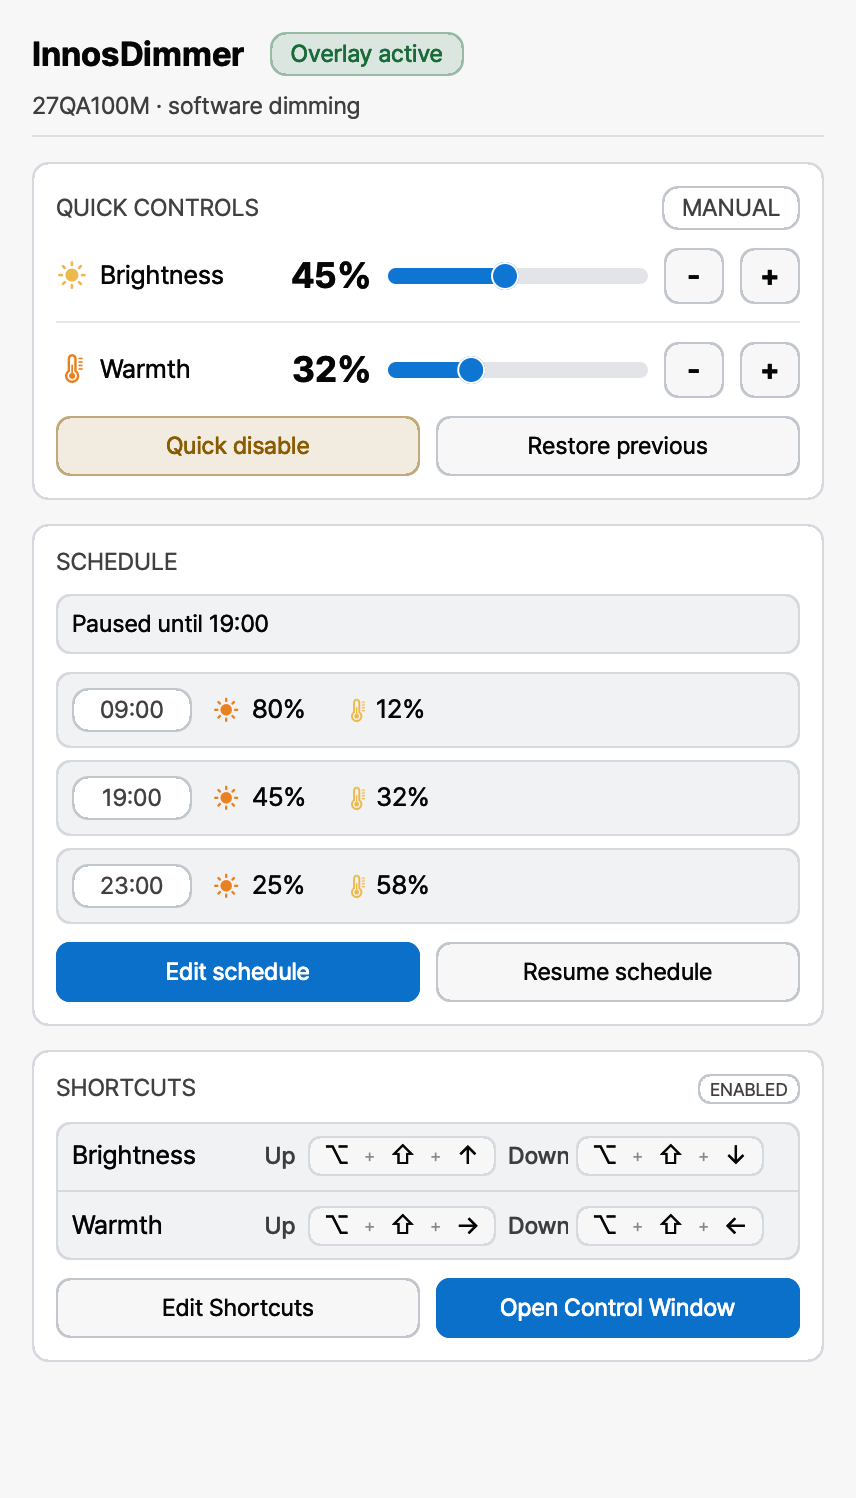
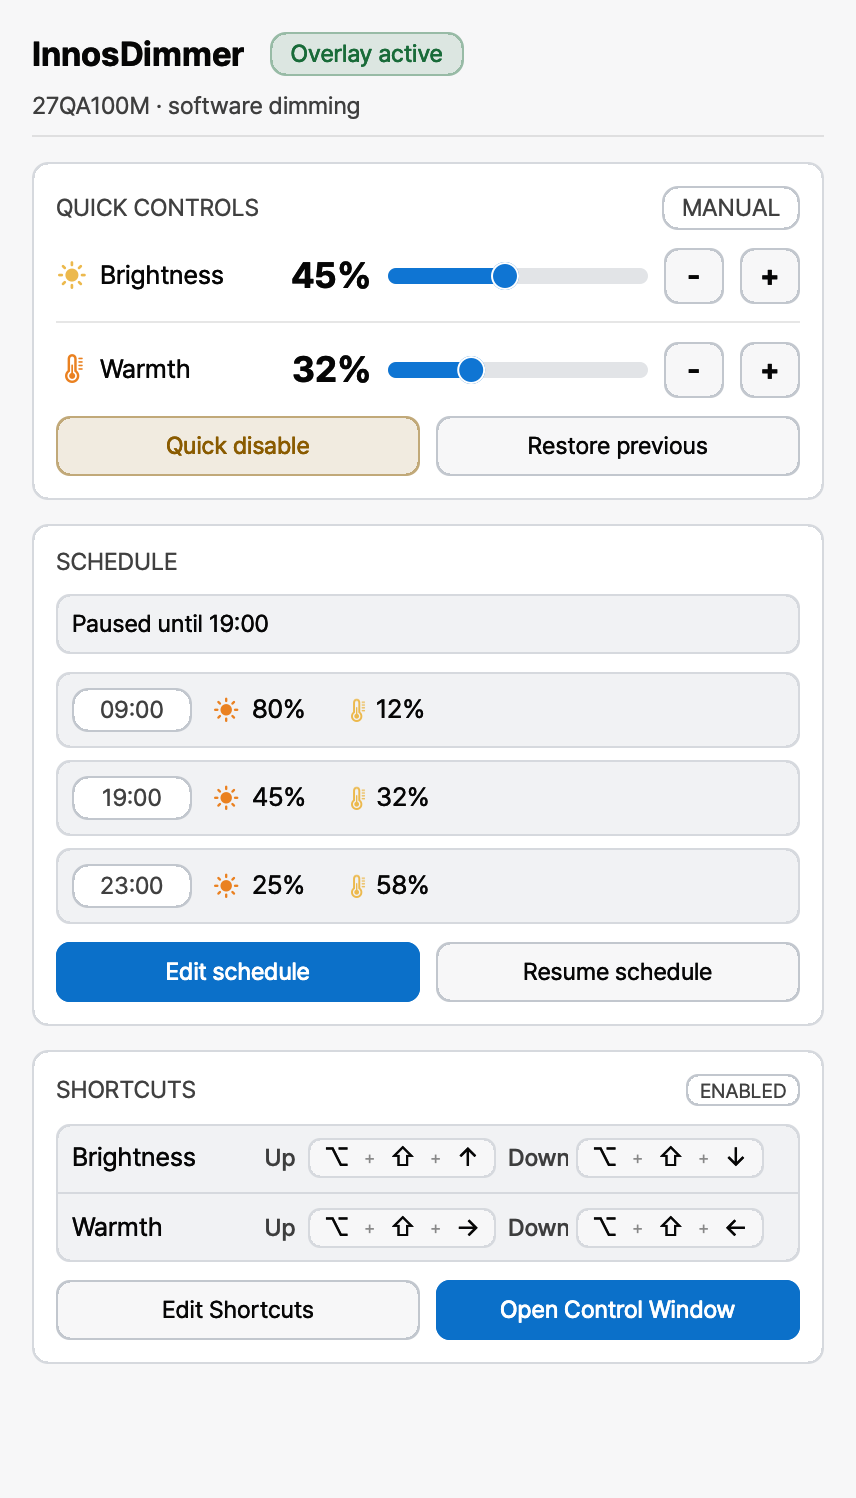
Enlarge compact popover enabled badge
Why: The Shortcuts ENABLED badge in the current popover mockup was too small after prior compaction.

Key changes:
- Increase the compact popover badge font role from 9pt to 10pt.
- Give compact popover badges slightly wider padding and an 18pt minimum height.
- Sync mockup-current, the current-state plan snippet, and actual popover captures.

Operator context:
- User selected the Shortcuts ENABLED badge in mockup-current and requested it be slightly larger.
- Kept unrelated app-window and window-redesign dirty files unstaged.

Verification:
- xcodebuild -project InnosDimmer.xcodeproj -scheme InnosDimmer -destination 'platform=macOS' CODE_SIGNING_ALLOWED=NO test -only-testing:InnosDimmerTests/MenuBarStateTests -only-testing:InnosDimmerTests/HotkeyBindingTests
- git diff --check
- git diff --cached --check

Changed region(s): [[0.0607, 0.7063, 0.9416, 0.9212]]

diff --git a/InnosDimmer/UI/MenuBarPopoverView.swift b/InnosDimmer/UI/MenuBarPopoverView.swift
@@ -130,8 +130,8 @@ private final class BadgePillView: NSView {
 
         addSubview(label)
         NSLayoutConstraint.activate([
-            label.leadingAnchor.constraint(equalTo: leadingAnchor, constant: compact ? 4 : 8),
-            label.trailingAnchor.constraint(equalTo: trailingAnchor, constant: compact ? -4 : -8),
+            label.leadingAnchor.constraint(equalTo: leadingAnchor, constant: compact ? 5 : 8),
+            label.trailingAnchor.constraint(equalTo: trailingAnchor, constant: compact ? -5 : -8),
             label.topAnchor.constraint(equalTo: topAnchor, constant: compact ? 2 : 4),
             label.bottomAnchor.constraint(equalTo: bottomAnchor, constant: compact ? -2 : -4)
         ])
@@ -154,7 +154,7 @@ private final class BadgePillView: NSView {
     override var intrinsicContentSize: NSSize {
         let size = label.intrinsicContentSize
         if compact {
-            return NSSize(width: size.width + 8, height: max(16, size.height + 4))
+            return NSSize(width: size.width + 10, height: max(18, size.height + 4))
         }
         return NSSize(width: size.width + 16, height: max(24, size.height + 8))
     }

diff --git a/docs/design/popover-redesign/mockup-current.html b/docs/design/popover-redesign/mockup-current.html
@@ -182,10 +182,10 @@
     }
 
     .badge.compact {
-      min-height: 16px;
-      padding: 2px 4px;
+      min-height: 18px;
+      padding: 2px 5px;
       border-radius: 6px;
-      font-size: 9px;
+      font-size: 10px;
       line-height: 1;
     }
 

diff --git a/InnosDimmer/UI/DesignSystem/InnosDesignTokens.swift b/InnosDimmer/UI/DesignSystem/InnosDesignTokens.swift
@@ -56,7 +56,7 @@ enum InnosDesignTokens {
         static var popoverButton: NSFont { app(ofSize: 12, weight: .semibold) }
         static var popoverStepperButton: NSFont { app(ofSize: 15, weight: .bold) }
         static var popoverBadge: NSFont { app(ofSize: 12, weight: .semibold) }
-        static var popoverBadgeCompact: NSFont { app(ofSize: 9, weight: .semibold) }
+        static var popoverBadgeCompact: NSFont { app(ofSize: 10, weight: .semibold) }
         static var popoverShortcutName: NSFont { app(ofSize: 13, weight: .semibold) }
         static var popoverShortcutDirection: NSFont { app(ofSize: 12, weight: .medium) }
         static var popoverShortcutToken: NSFont { app(ofSize: 13, weight: .semibold) }

diff --git a/docs/design/popover-redesign/current-state-production-sync/2026-06-22-current-state-production-sync-plan-first.md b/docs/design/popover-redesign/current-state-production-sync/2026-06-22-current-state-production-sync-plan-first.md
@@ -284,7 +284,7 @@ static var popoverValue: NSFont { app(ofSize: 18, weight: .bold) }
 static var popoverButton: NSFont { app(ofSize: 12, weight: .semibold) }
 static var popoverStepperButton: NSFont { app(ofSize: 15, weight: .bold) }
 static var popoverBadge: NSFont { app(ofSize: 12, weight: .semibold) }
-static var popoverBadgeCompact: NSFont { app(ofSize: 9, weight: .semibold) }
+static var popoverBadgeCompact: NSFont { app(ofSize: 10, weight: .semibold) }
 static var popoverShortcutName: NSFont { app(ofSize: 13, weight: .semibold) }
 static var popoverShortcutDirection: NSFont { app(ofSize: 12, weight: .medium) }
 static var popoverShortcutToken: NSFont { app(ofSize: 13, weight: .semibold) }